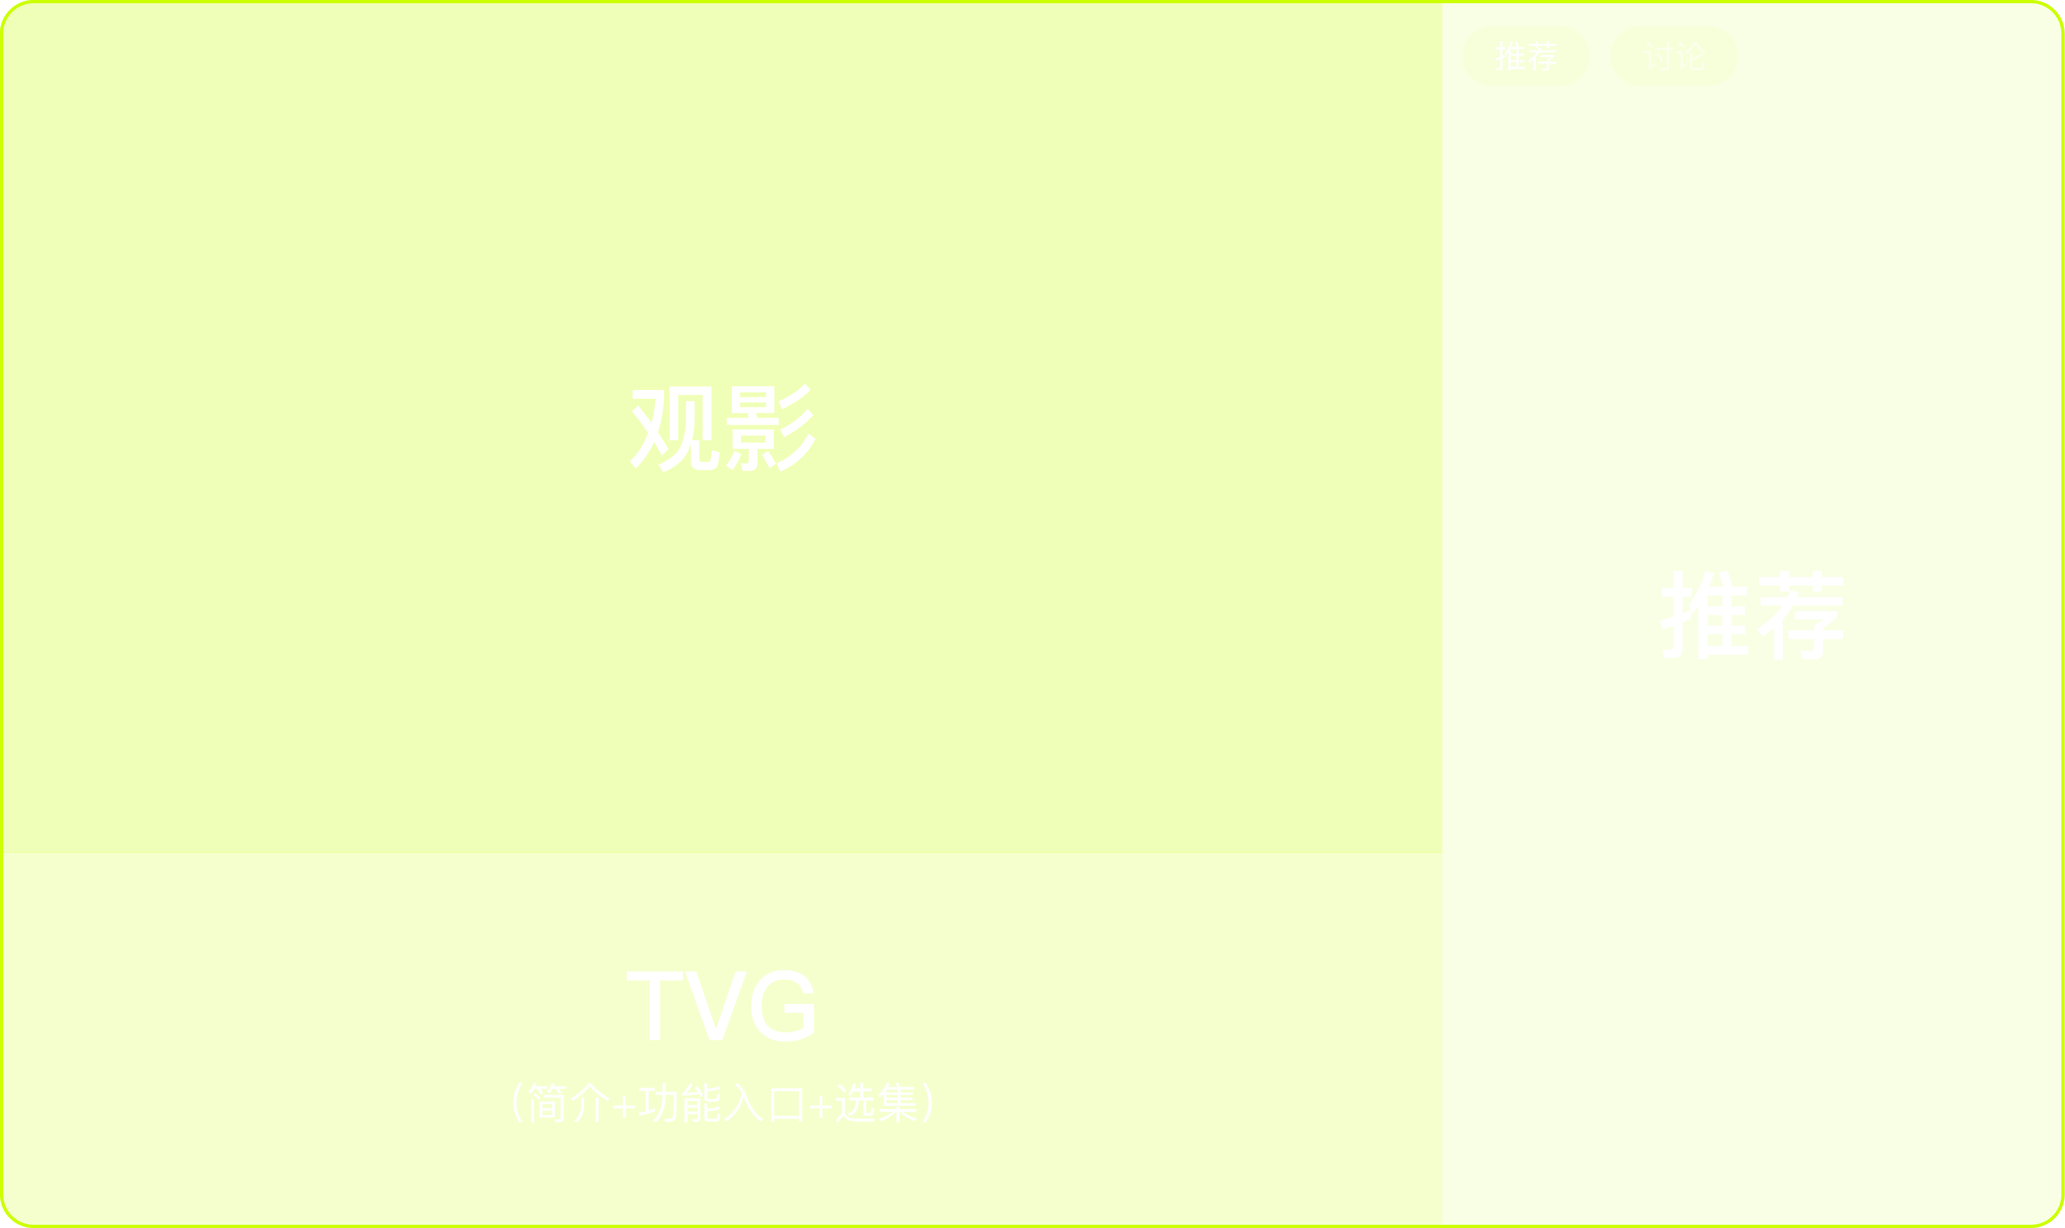
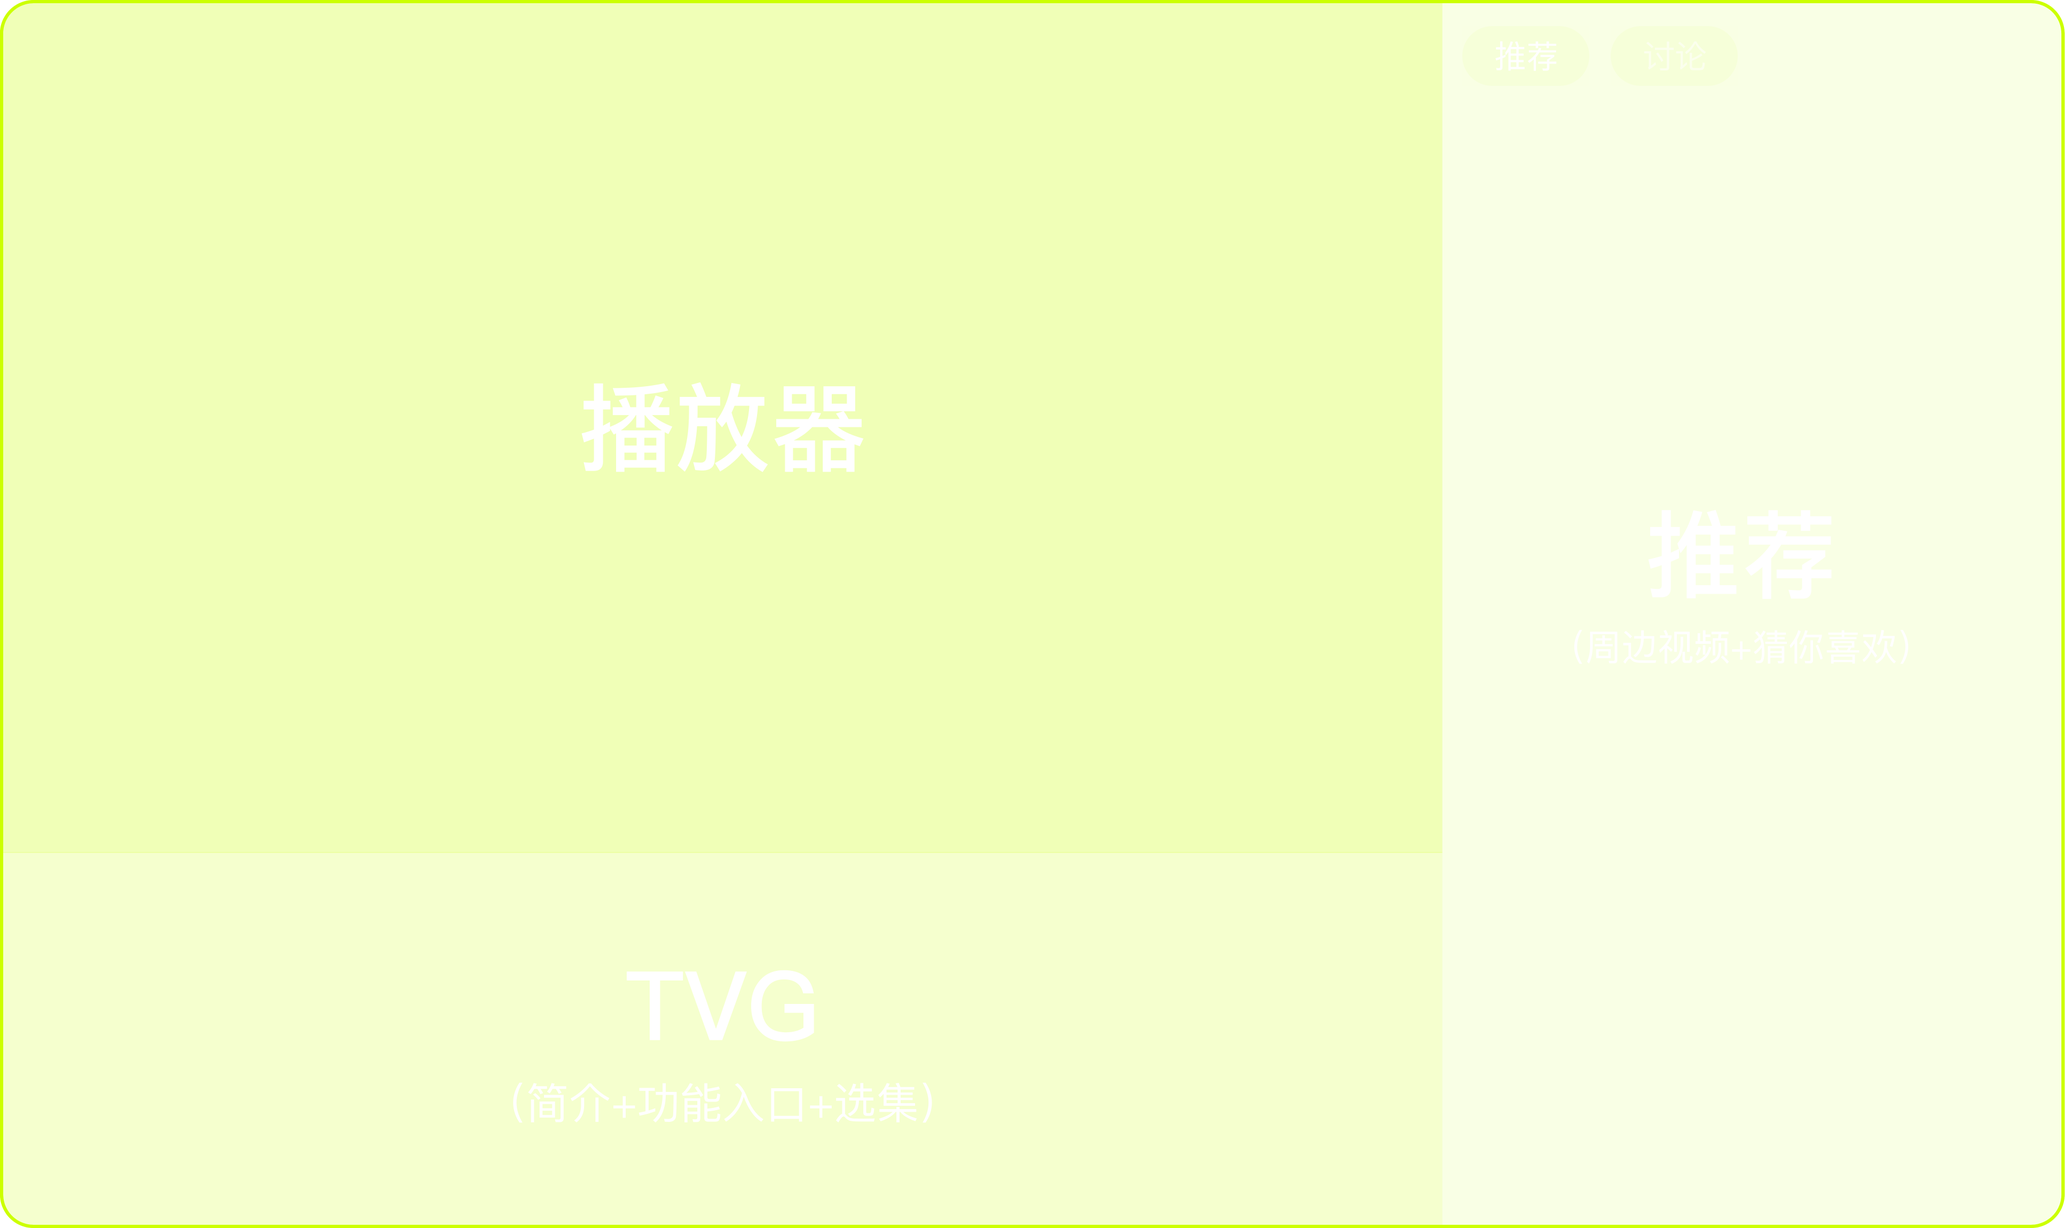
feat: 项目文案精简润色与Pad播放页方案呈现页完善
- 首页三项目卡片：描述精简为一句话、底部标签提炼、吃鲸AI副标题优化
- 工作经历：文案重写润色
- Pad播放页：方案呈现页补充标题/正文/配图/数据验证，目录与方案探索文案微调
- 更新 Pad 播放页相关配图

Changed region(s): [[0.7756, 0.401, 0.8997, 0.5552], [0.2792, 0.3084, 0.4343, 0.401]]

diff --git a/src/data/projects.ts b/src/data/projects.ts
@@ -5,14 +5,14 @@ export const projectData: Project[] = [
     id: 'project-3',
     title: '吃鲸AI',
     description:
-      '爱奇艺孵化的 AI 视频互动社区。用「以消带产」策略打通从观看到创作的链路，通过台词改写、故事接龙等轻量玩法激活影视 IP 资产。以「把 AI 生成的不可控，校准为可控的体验」为核心设计方法论。',
+      '爱奇艺孵化的 AI 视频互动社区，以IP资源赋能创作，用台词改写、故事接龙等轻量玩法，打通从观看到创作的链路。',
     imagePath: 'https://picsum.photos/seed/project3/1200/800',
-    techStack: ['0→1 设计 Owner', 'AI 交互设计', '玩法矩阵'],
+    techStack: ['0→1 设计 Owner', 'AI 交互设计', '轻量创作玩法'],
     sourceUrl: 'https://github.com',
     detail: {
       pageTitle: '吃鲸AI | 从内容消费到AI共创',
       mainTitle: '',
-      subtitle: '从消费到共创',
+      subtitle: '从内容消费到AI共创',
       sections: [
         {
           heading: '目录',
@@ -577,9 +577,9 @@ export const projectData: Project[] = [
     id: 'project-2',
     title: '明星陪看直播间',
     description:
-      '明星陪看把影视观影重构为「边看边聊」的社交现场，以明星实时陪伴与粉丝互动建立情感连接。送礼玩法优化后，直播项目营收创上线以来历史新高，与「弹幕」「卡牌」并列为爱奇艺互动体验设计的三大营收版图。',
+      '把影视观影重构为「边看边聊」的社交现场，以明星陪伴与送礼玩法带动直播营收创历史新高。',
     imagePath: 'https://picsum.photos/seed/project2/1200/800',
-    techStack: ['营收历史新高', '直播社交', '送礼玩法矩阵', '陪看体验设计'],
+    techStack: ['商业化增长', '直播体验设计', '情感变现'],
     liveUrl: 'https://example.com',
     sourceUrl: 'https://github.com',
     detail: {
@@ -1016,9 +1016,9 @@ export const projectData: Project[] = [
     id: 'project-1',
     title: 'Pad端播放页',
     description:
-      'Pad 端播放页长期沿用手机端布局，与大屏「沉浸消费」的心智形成错配。主导从「三分屏」到「二分屏」的架构重构，以双端心智差异模型与站内数据为依据，用「沉浸优先」重新校准信息优先级。',
+      '主导 Pad 端播放页从「三分屏」到「二分屏」的架构重构，以「沉浸优先」校准大屏观影体验。',
     imagePath: 'https://picsum.photos/seed/project1/1200/800',
-    techStack: ['体验重构', 'Pad 端适配', '沉浸式交互'],
+    techStack: ['大屏体验重构', '多端差异化设计', '沉浸化观影体验'],
     detail: {
       pageTitle: 'Pad端播放页',
       mainTitle: '',
@@ -1041,7 +1041,7 @@ export const projectData: Project[] = [
 @media(max-width:767px){.toc-grid{grid-template-columns:1fr;gap:16px}.toc-num{font-size:32px}.toc-card{height:180px;padding:16px}.toc-card-title{font-size:13px}}
 </style>
 <div class="toc-grid">
-<div class="toc-col"><span class="toc-num">01</span><div class="toc-card" data-goto="1"><div><p class="toc-card-title">背景与洞察</p><div class="toc-card-pages"><div class="toc-page-row" data-goto="1"><span class="toc-page-name">重构背景</span><span class="toc-page-num">P02</span></div><div class="toc-page-row" data-goto="2"><span class="toc-page-name">用户调研</span><span class="toc-page-num">P03</span></div><div class="toc-page-row" data-goto="3"><span class="toc-page-name">双端心智差异模型</span><span class="toc-page-num">P04</span></div></div></div><span class="toc-card-tag">/ Context</span></div></div>
+<div class="toc-col"><span class="toc-num">01</span><div class="toc-card" data-goto="1"><div><p class="toc-card-title">背景与洞察</p><div class="toc-card-pages"><div class="toc-page-row" data-goto="1"><span class="toc-page-name">重构背景</span><span class="toc-page-num">P02</span></div><div class="toc-page-row" data-goto="2"><span class="toc-page-name">用户调研</span><span class="toc-page-num">P03</span></div><div class="toc-page-row" data-goto="3"><span class="toc-page-name">双端心智差异</span><span class="toc-page-num">P04</span></div></div></div><span class="toc-card-tag">/ Context</span></div></div>
 <div class="toc-col"><span class="toc-num">02</span><div class="toc-card" data-goto="4"><div><p class="toc-card-title">诊断与策略</p><div class="toc-card-pages"><div class="toc-page-row" data-goto="4"><span class="toc-page-name">架构诊断</span><span class="toc-page-num">P05</span></div><div class="toc-page-row" data-goto="5"><span class="toc-page-name">机型分布</span><span class="toc-page-num">P06</span></div><div class="toc-page-row" data-goto="6"><span class="toc-page-name">策略推导</span><span class="toc-page-num">P07</span></div></div></div><span class="toc-card-tag">/ Strategy</span></div></div>
 <div class="toc-col"><span class="toc-num">03</span><div class="toc-card" data-goto="7"><div><p class="toc-card-title">方案与呈现</p><div class="toc-card-pages"><div class="toc-page-row" data-goto="7"><span class="toc-page-name">方案探索</span><span class="toc-page-num">P08</span></div><div class="toc-page-row" data-goto="8"><span class="toc-page-name">方案呈现</span><span class="toc-page-num">P09</span></div></div></div><span class="toc-card-tag">/ Solution</span></div></div>
 </div>`,
@@ -1227,14 +1227,14 @@ export const projectData: Project[] = [
 @media(max-width:767px){.pad8-row{grid-template-columns:1fr}}
 </style>
 <div class="pad8-row">
-<div class="pad8-card accent"><div><h4 class="pad8-h4">内容优先</h4><p class="pad8-sub">重构沉浸阵地</p><p class="pad8-desc">播放器回归绝对主角。将进入全屏观影设为最高优先级，摒弃冗余干扰，将架构精简为「主内容 + 窄辅助」的二分屏，给用户纯净的沉浸体验。</p></div></div>
-<div class="pad8-card"><div><h4 class="pad8-h4">效率至上</h4><p class="pad8-sub">优化信息触达</p><p class="pad8-desc">让高频的<b>切换选集</b>触手可及；将低频互动与推荐合理收纳。通过碎片信息的有序聚合，推动体验从单一的「孤立观影」向「内容深度探索」升级。</p></div></div>
+<div class="pad8-card accent"><div><h4 class="pad8-h4">内容优先</h4><p class="pad8-sub">重构沉浸阵地</p><p class="pad8-desc">播放器回归绝对主角。将进入全屏观影设为最高优先级，摒弃冗余干扰，将架构精简为「主内容 + 窄辅助」，给用户纯净的沉浸体验。</p></div></div>
+<div class="pad8-card"><div><h4 class="pad8-h4">效率至上</h4><p class="pad8-sub">优化信息触达</p><p class="pad8-desc">让高频的<b>切换选集</b>触手可及；将低频评论互动进行合理隐藏收纳。通过碎片信息的有序聚合，推动体验从单一的「孤立观影」向「内容深度探索」升级。</p></div></div>
 <div class="pad8-card"><div><h4 class="pad8-h4">商业克制</h4><p class="pad8-sub">达成温和共生</p><p class="pad8-desc">改变生硬的「硬植入」逻辑，将商业触达转化为顺滑的场景服务。在坚守沉浸观影的前提下让商业自然融入，避免对用户注意力的过度争夺。</p></div></div>
 </div>`,
         },
         {
-          heading: '方案探索：从 L 型混排到二分屏架构的演进',
-          body: '基于前期推导的三大策略（内容优先、效率至上、商业克制），我们围绕 Pad 端横屏布局展开了多轮架构推演。通过对两种代表性方案的优劣势评估，最终收敛至最优解。',
+          heading: '方案探索：从三分屏到二分屏架构的演进',
+          body: '基于前期推导出的三大策略，我们围绕 Pad 横屏布局展开了多轮架构推演。最终，通过对两种代表性方案的优劣势评估，我们收敛至最优解。',
           html: `<style>
 .pad10-flow{display:flex;align-items:stretch;justify-content:center;gap:48px;max-width:960px;margin:24px auto 0}
 .pad10-group{flex:1;max-width:400px;display:flex;flex-direction:column;gap:12px}
@@ -1251,17 +1251,17 @@ export const projectData: Project[] = [
 </style>
 <div class="pad10-flow">
 <div class="pad10-group">
-<h4 class="pad10-title">方案 A：L 型混排结构（已放弃）</h4>
+<h4 class="pad10-title">方案 A：基于三分屏结构微调（已放弃）</h4>
 <div class="pad10-desc">
-<p><b>结构特征：</b>尝试拉宽观影区并将 TVG 下沉至底部。</p>
-<p><b>局限评估：</b>视线动线被严重折叠打断，主画面与高频选集错位；且异构屏幕（4:3 与 1.6:1）下的容器适配成本极高，违背「降噪」底线。</p>
+<p><b>结构特征：</b>尝试拉宽观影区，并将周边视频调整至右侧，试图为选集释放更多操作空间。</p>
+<p><b>局限评估：</b>选集和周边视频逻辑上的亲密性，被拆分后视觉动线打断；不同屏幕比例设备适配成本高，后期维护困难。</p>
 </div>
 <img class="pad10-img" src="/birdys-portfolio/images/pad-scheme-l.png" alt="L 型混排结构" />
 </div>
 <div class="pad10-group">
-<h4 class="pad10-title">方案 B：经典二分屏结构（最终胜出）</h4>
+<h4 class="pad10-title">方案 B：更激进的二分屏结构（最终胜出）</h4>
 <div class="pad10-desc">
-<p><b>结构特征：</b>确立「主内容 + 窄辅助」二分屏。左侧 77.4% 空间全屏观影；右侧纵向切分，上方承载高频 TVG，下方收纳推荐。</p>
+<p><b>结构特征：</b>确立「主内容 + 窄辅助」二分屏。左侧全部空间服务于观影；右侧纵向切分，上方承载高频选集操作，下方收纳推荐。</p>
 <p><b>价值评估：</b>完美契合用户心智与 Gpad 1.6:1 宽屏物理特性，兼顾沉浸感与宽屏效率。</p>
 </div>
 <img class="pad10-img" src="/birdys-portfolio/images/pad-scheme-dual.png" alt="经典二分屏结构" />
@@ -1270,8 +1270,22 @@ export const projectData: Project[] = [
 <p class="pad10-conclusion">综合评估后，<b>二分屏架构</b>更契合「沉浸优先」的原则，被确定为最终方案。</p>`,
         },
         {
-          heading: '方案呈现',
-          body: '',
+          heading: '方案呈现：线上形态与结果验证',
+          body: '最终方案以「二分屏」架构正式落地：左侧是纯粹让位给画面的观影区，右侧窄辅助列纵向承载高频的<b>选集操作</b>与低频的<b>内容推荐</b>，让信息各归其位。\n\n呼应「沉浸优先」的准则，播控条被设计为<b>动态显隐</b>：用户无操作时，播控自动收起、画面归于纯净（无播控）；一旦触达屏幕，播控即时唤起、操作触手可及（有播控），在沉浸与效率之间取得平衡。',
+          html: `<style>
+.pad12-row{display:grid;grid-template-columns:repeat(2,1fr);gap:48px;max-width:900px;margin:24px auto 0}
+.pad12-fig{display:flex;flex-direction:column;gap:10px;align-items:center}
+.pad12-fig img{width:100%;height:auto;display:block}
+.pad12-cap{color:#A0A0A0;font-size:12px;text-align:center}
+.pad12-conclusion{max-width:900px;margin:24px auto 0;text-align:center;color:#A0A0A0;font-size:13px;line-height:1.75;font-weight:400}
+.pad12-conclusion b{color:#C7FF00;font-weight:600}
+@media(max-width:767px){.pad12-row{grid-template-columns:1fr}}
+</style>
+<div class="pad12-row">
+<div class="pad12-fig"><img src="/birdys-portfolio/images/pad-final-ctrl-on.png" alt="上线样式-有播控" /><span class="pad12-cap">上线样式-有播控</span></div>
+<div class="pad12-fig"><img src="/birdys-portfolio/images/pad-final-ctrl-off.png" alt="上线样式-无播控" /><span class="pad12-cap">上线样式-无播控</span></div>
+</div>
+<p class="pad12-conclusion">数据验证：方案上线后，Pad 端<b>完播率与连播率均出现明显提升</b>，人均观看时长亦<b>同步上扬</b>，「沉浸优先」的重构价值得到正向印证。</p>`,
         },
         {
           heading: 'Thanks',

diff --git a/src/data/experience.ts b/src/data/experience.ts
@@ -9,13 +9,13 @@ export const experienceData: ExperienceEntry[] = [
     endDate: '2026-05',
     description: [
       '##吃鲸AI · AI 视频互动社区',
-      '作为 0→1 设计 Owner，主导 AI 视频互动社区的交互框架与玩法矩阵，以「以消带产」打通从观看到创作的链路。',
-      '设计台词改写、故事接龙等轻量玩法，将高门槛创作降维为碎片化交互，沉淀「把 AI 不可控校准为可控体验」的设计方法。',
+      '作为 0→1 设计 Owner，主导 AI 视频互动社区的交互框架与玩法矩阵，利用站内IP资源赋能创作，引导观众转型为AI视频创作者',
+      '设计台词改写、故事接龙等轻量玩法，将高门槛创作降维为渐进化交互，沉淀出「把 AI 不可控校准为可控体验」的设计方法。',
       '##一起聊 · 明星陪看直播间',
-      '重构直播间视听布局与动态避让逻辑，确立沉浸式观影交互标准，与「弹幕」「卡牌」并列为三大互动体验设计版图。',
-      '重构送礼玩法与组件化架构，将商业消费转化为情感反馈闭环，推动直播营收创上线以来历史新高。',
+      '重构直播间视听布局与动态避让逻辑，确立沉浸式观影交互标准。',
+      '设计送礼玩法与标准化组件，将商业消费转化为情感反馈闭环，助力直播营收创上线以来新高。',
       '##爱奇艺 · Pad 端播放页',
-      '主导播放页从「三分屏」到「二分屏」的架构重构，基于双端心智差异模型与站内数据，以「沉浸优先」重新校准大屏信息优先级。',
+      '主导播放页从「三分屏」到「二分屏」的架构重构。基于Phone/Pad双端心智差异，以「沉浸优先」重新校准大屏信息优先级，实现完播率提升。',
     ],
     techStack: ['Figma', 'AI Product Design', 'Design System', 'User Research', 'Prototyping', 'Live Streaming UX'],
     companyUrl: 'https://www.iqiyi.com',
@@ -28,13 +28,13 @@ export const experienceData: ExperienceEntry[] = [
     endDate: '2021-08',
     description: [
       '##菜鸟驿站 · 智能小样派发终端',
-      '主导线下硬件大屏与线上小程序间的联动交互设计，统一跨端视觉语言并重构核心核销链路。',
+      '建立并统一跨端视觉语言系统， 主导线下硬件大屏与线上小程序间的联动交互设计，重构核心核销链路。',
       '通过首页交互结构与视觉体验升级，驱动派样 SKU 点击率实现 120% 的量级增长。',
       '##菜鸟驿站 · 站长端广告任务平台',
-      '引入"上瘾模型"重塑站长任务体系，通过佣金预期管理与路径优化，显著提升广告任务的报名率与执行完成率。',
+      '基于「上瘾模型」，通过重构任务激励与佣金预期管理机制，系统化重塑站长端广告任务体系。显著提升了广告任务的报名率与执行完成率，实现了平台流量变现与站长收益的双赢。',
       '##驿发购·社区团购小程序',
-      '针对社区团购场景，对"浏览-加购-下单"路径进行组件化重构，显著提升核心转化的下单效率。',
-      '聚焦团长私域运营场景，通过阿里妈妈自动化模版引擎，简化营销素材生产路径，实现商品的高效分发，助力团长在私域流量池内完成转化与规模化留存。',
+      '针对社区团购高频场景，对「浏览-加购-下单」路径进行组件化重构，显著提升核心链路的转化效率。',
+      '聚焦团长私域运营痛点，引入自动化模版引擎，赋能团长低成本、高效率地分发营销素材，助力其在私域流量池内实现规模化转化与留存。',
     ],
     techStack: ['Figma', 'Sketch', 'IoT UX', 'B-end Design', 'Mini Program Design', 'Design System', 'User Behavior Modeling'],
   },
@@ -46,11 +46,10 @@ export const experienceData: ExperienceEntry[] = [
     endDate: '2020-12',
     description: [
       '##功夫贷·互联网金融产品',
-      '主导 App 与 Web 全端产品的交互体验架构，从零搭建统一的设计语言系统，确保多终端体验的高度一致性。',
-      '通过系统化的界面逻辑规划，优化核心业务流程，提升用户在复杂金融场景下的操作决策效率。',
-      '##大树金融·信用审核后台体验重构',
-      '深入信审业务一线，通过用户访谈与行为路径追踪，精准识别信审流程中的冗余痛点。',
-      '针对性制定体验优化方案，重塑信审后台信息架构与交互逻辑，将繁杂的审核操作转化为系统化的作业流，显著提升信审人员的作业效率与决策精准度。',
+      '主导 App 与 Web 全端产品的体验架构升级，从零构建并推行统一的设计语言系统，确保多终端体验的品牌一致性与连贯性。',
+      '##大树金融·信用审核后台',
+      '深入信审业务一线，通过用研与行为路径追踪，精准定位并拆解信审流程中的冗余痛点。',
+      '针对性制定体验优化策略，重塑信审后台信息架构与交互逻辑，将繁杂的人工审核转化为系统化的作业流，显著提升信审作业效率与决策精准度。',
     ],
     techStack: ['Sketch', 'Photoshop', 'Illustrator', 'Design System', 'FinTech UX', 'User Research', 'Prototyping'],
   },
